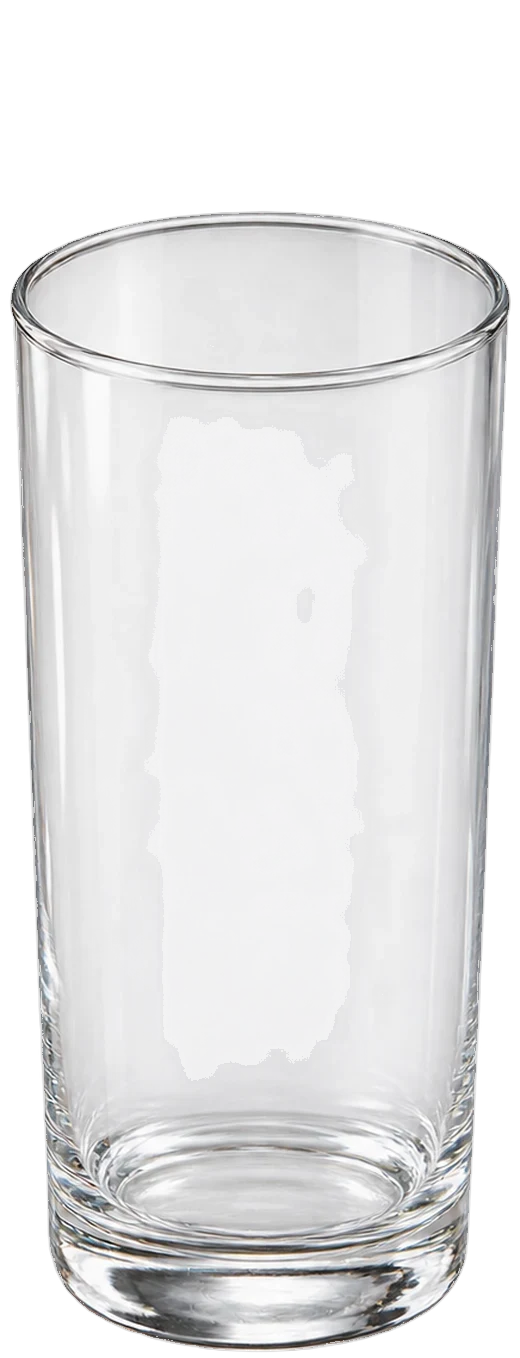
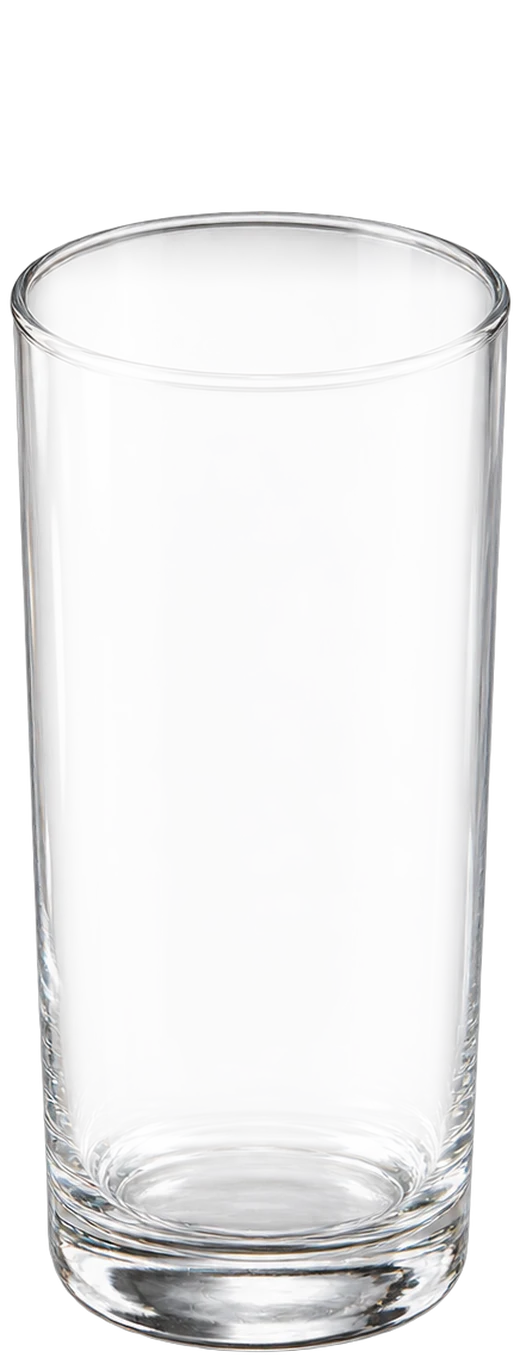
Builder cup now shows the toppings that were picked
Real layers cut from the full parfait photo stack up to match the
picks: granola, a berry layer, a mango/pineapple/banana layer, and a
berry crown for Mixed Berries, with yogurt between each. The empty
glass is clean and see-through.

Claude-Session: https://claude.ai/code/session_014Fo4V2e4Aw97HrD51miLoH

diff --git a/src/components/art/StageCup.tsx b/src/components/art/StageCup.tsx
@@ -1,11 +1,17 @@
-import { useEffect } from "react";
-import { motion, MotionValue, useReducedMotion, useSpring, useTransform } from "framer-motion";
+import { useEffect, useRef } from "react";
+import { AnimatePresence, motion, MotionValue, useInView, useReducedMotion, useSpring, useTransform } from "framer-motion";
 import s0 from "@/assets/real/stage-0.webp";
 import s1 from "@/assets/real/stage-1.webp";
 import s2 from "@/assets/real/stage-2.webp";
 import s3 from "@/assets/real/stage-3.webp";
 import s4 from "@/assets/real/stage-4.webp";
 import s5 from "@/assets/real/stage-5.webp";
+import lBase from "@/assets/real/layer-base.webp";
+import lGranola from "@/assets/real/layer-granola.webp";
+import lYogurt from "@/assets/real/layer-yogurt.webp";
+import lBerries from "@/assets/real/layer-berries.webp";
+import lTropical from "@/assets/real/layer-tropical.webp";
+import lCrown from "@/assets/real/layer-crown.webp";
 
 /** Photos of the same parfait at each stage: empty, yogurt, granola, berries, mango, full. */
 const STAGES = [s0, s1, s2, s3, s4, s5];
@@ -33,12 +39,79 @@ export const StageCup = ({ stage, label }: { stage: MotionValue<number>; label: 
   </div>
 );
 
-/** Builder version: springs to the stage that matches how many toppings are picked. */
-export const BuilderCup = ({ toppings, show }: { toppings: string[]; show: boolean }) => {
+/* Builder: real layers cut from the full parfait photo, stacked to match what was picked. */
+// h: strip height and c: where its centre sat in the photo (both % of the cup height)
+const STRIPS = {
+  granola: { src: lGranola, h: 15, c: 63.5 },
+  yogurt: { src: lYogurt, h: 10, c: 53.5 },
+  berries: { src: lBerries, h: 13.5, c: 44.3 },
+  tropical: { src: lTropical, h: 12, c: 28.5 },
+  crown: { src: lCrown, h: 25.5, c: 12.7 },
+};
+// The glass narrows towards the base, so a strip moved down is squeezed a touch to fit.
+const taper = (from: number, to: number) => 1 - 0.0016 * (to - from);
+type Strip = keyof typeof STRIPS;
+const BERRIES = ["Strawberries", "Blueberries", "Mixed Berries"];
+const TROPICAL = ["Fresh Mango", "Pineapple", "Banana"];
+
+/** Which layers to show, bottom to top, and where each one sits (% from the top of the cup). */
+export const stackFor = (toppings: string[]) => {
+  const kinds: Strip[] = [];
+  const add = (k: Strip) => {
+    if (kinds.length) kinds.push("yogurt");
+    kinds.push(k);
+  };
+  if (toppings.includes("Granola")) add("granola");
+  if (toppings.some((t) => BERRIES.includes(t))) add("berries");
+  if (toppings.some((t) => TROPICAL.includes(t))) add("tropical");
+  if (toppings.includes("Mixed Berries") && kinds.length) kinds.push("crown");
+  let bottom = 74; // the base yogurt surface
+  const seen: Record<string, number> = {};
+  return kinds.map((k) => {
+    const { src, h, c } = STRIPS[k];
+    const top = bottom - h;
+    seen[k] = (seen[k] ?? 0) + 1;
+    const item = { key: `${k}-${seen[k]}`, src, top, h, sx: taper(c, top + h / 2) * (k === "yogurt" && seen[k] > 1 ? -1 : 1) };
+    bottom = top + (k === "tropical" ? 3.5 : 2.5);
+    return item;
+  });
+};
+
+export const BuilderCup = ({ toppings }: { toppings: string[] }) => {
   const reduce = useReducedMotion();
-  const n = toppings.length;
-  const target = !show ? 0 : n === 0 ? 1 : n === 1 ? 2 : n <= 3 ? 3 : n <= 5 ? 4 : 5;
-  const stage = useSpring(0, reduce ? { duration: 0 } : { stiffness: 45, damping: 16 });
-  useEffect(() => stage.set(target), [target, stage]);
-  return <StageCup stage={stage} label={n ? `Parfait with ${toppings.join(", ")}` : "Greek yogurt parfait base"} />;
+  const ref = useRef<HTMLDivElement>(null);
+  const seen = useInView(ref, { once: true, amount: 0.3 });
+  const stack = stackFor(toppings);
+  return (
+    <div ref={ref} className="relative aspect-[520/1358] w-full select-none" role="img" aria-label={toppings.length ? `Parfait with ${toppings.join(", ")}` : "Greek yogurt parfait base"}>
+      <div aria-hidden="true" className="absolute inset-x-[14%] bottom-[-2%] h-[6%] rounded-[50%] bg-black/30 blur-xl" />
+      <img src={STAGES[0]} alt="" draggable={false} className="absolute inset-0 h-full w-full" />
+      <motion.img
+        src={lBase}
+        alt=""
+        draggable={false}
+        className="absolute left-0 w-full"
+        style={{ top: "71.5%", height: "28.5%" }}
+        initial={reduce ? false : { clipPath: "inset(100% 0 0 0)" }}
+        animate={{ clipPath: seen || reduce ? "inset(0% 0 0 0)" : "inset(100% 0 0 0)" }}
+        transition={{ duration: 1.1, ease: [0.22, 1, 0.36, 1] }}
+      />
+      <AnimatePresence initial={false}>
+        {stack.map((l, i) => (
+          <motion.img
+            key={l.key}
+            src={l.src}
+            alt=""
+            draggable={false}
+            className="absolute left-0 w-full"
+            style={{ height: `${l.h}%`, zIndex: i + 1, scaleX: l.sx }}
+            initial={reduce ? { opacity: 0, top: `${l.top}%` } : { opacity: 0, top: `${l.top - 14}%` }}
+            animate={{ opacity: 1, top: `${l.top}%` }}
+            exit={{ opacity: 0, top: `${l.top - 6}%`, transition: { duration: 0.25 } }}
+            transition={{ type: "spring", stiffness: 140, damping: 18 }}
+          />
+        ))}
+      </AnimatePresence>
+    </div>
+  );
 };

diff --git a/src/components/BuildYourOwn.tsx b/src/components/BuildYourOwn.tsx
@@ -1,6 +1,6 @@
-import { useRef, useState } from "react";
+import { useState } from "react";
 import { Check } from "lucide-react";
-import { motion, useInView } from "framer-motion";
+import { motion } from "framer-motion";
 import { BuilderCup } from "./art/StageCup";
 import mangoImg from "@/assets/real/mango.webp";
 import pineImg from "@/assets/real/pineapple.webp";
@@ -24,8 +24,6 @@ const colours = ["bg-lemon", "bg-blush", "bg-mint"];
 
 const BuildYourOwn = () => {
   const [picked, setPicked] = useState<string[]>([]);
-  const cupRef = useRef<HTMLDivElement>(null);
-  const cupSeen = useInView(cupRef, { once: true, amount: 0.3 });
   const { addItem } = useCart();
   const { toast } = useToast();
   const total = base.price + picked.length * TOPPING_PRICE;
@@ -46,7 +44,7 @@ const BuildYourOwn = () => {
           <p className="mt-5 max-w-md text-lg text-cream/75">Start with our creamy Greek yogurt base for {cfa(base.price)}, then add as many toppings as you like at {cfa(TOPPING_PRICE)} each.</p>
           <div className="relative mx-auto mt-6 w-full max-w-[8rem] md:mt-8 md:max-w-[13rem]">
             <div aria-hidden="true" className="absolute inset-[12%] rounded-full bg-mango/25 blur-3xl" />
-            <div className="relative" ref={cupRef}><BuilderCup toppings={picked} show={cupSeen} /></div>
+            <div className="relative"><BuilderCup toppings={picked} /></div>
           </div>
         </div>
         <div className="rounded-[2rem] bg-cream p-6 text-plum md:p-8">
